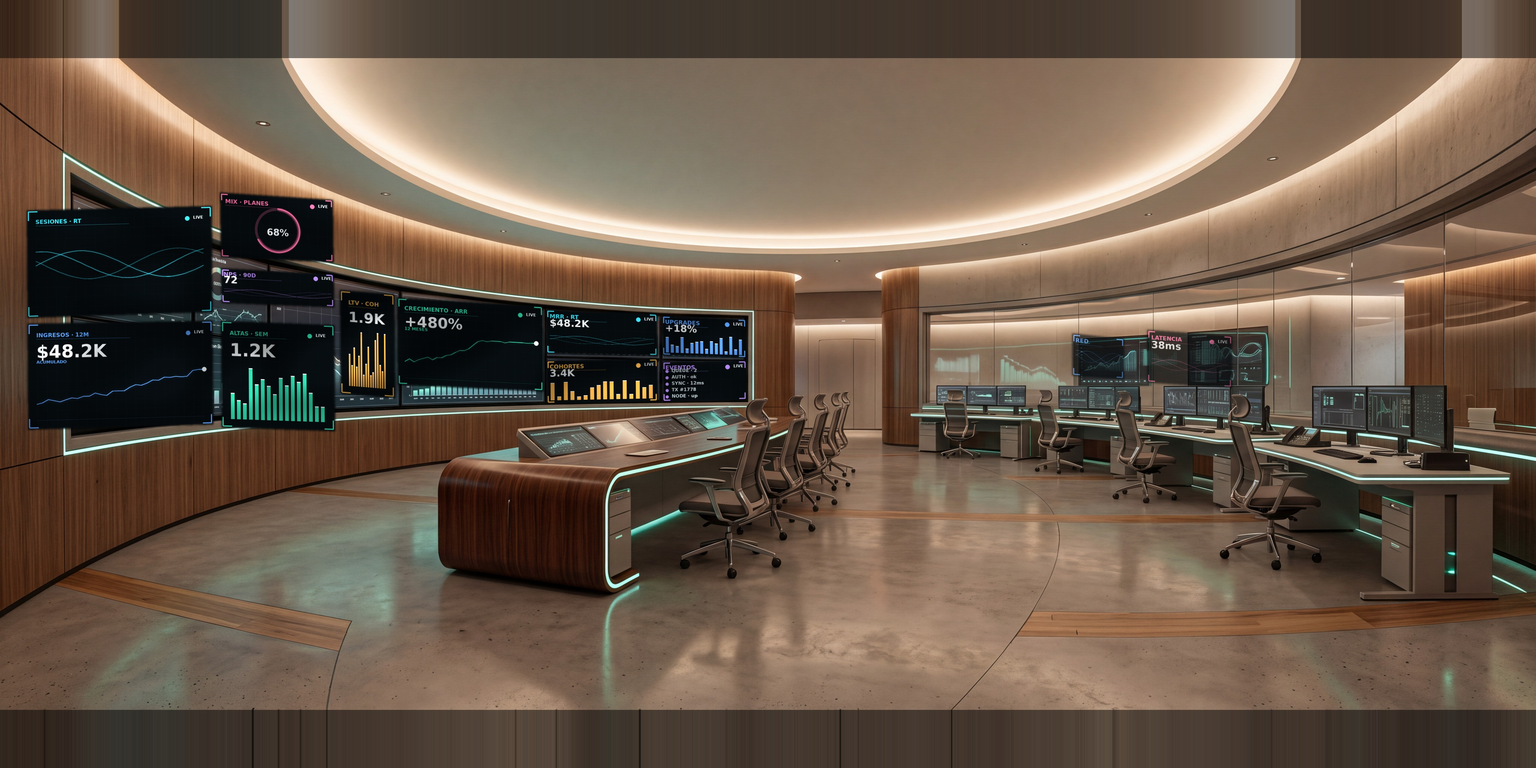
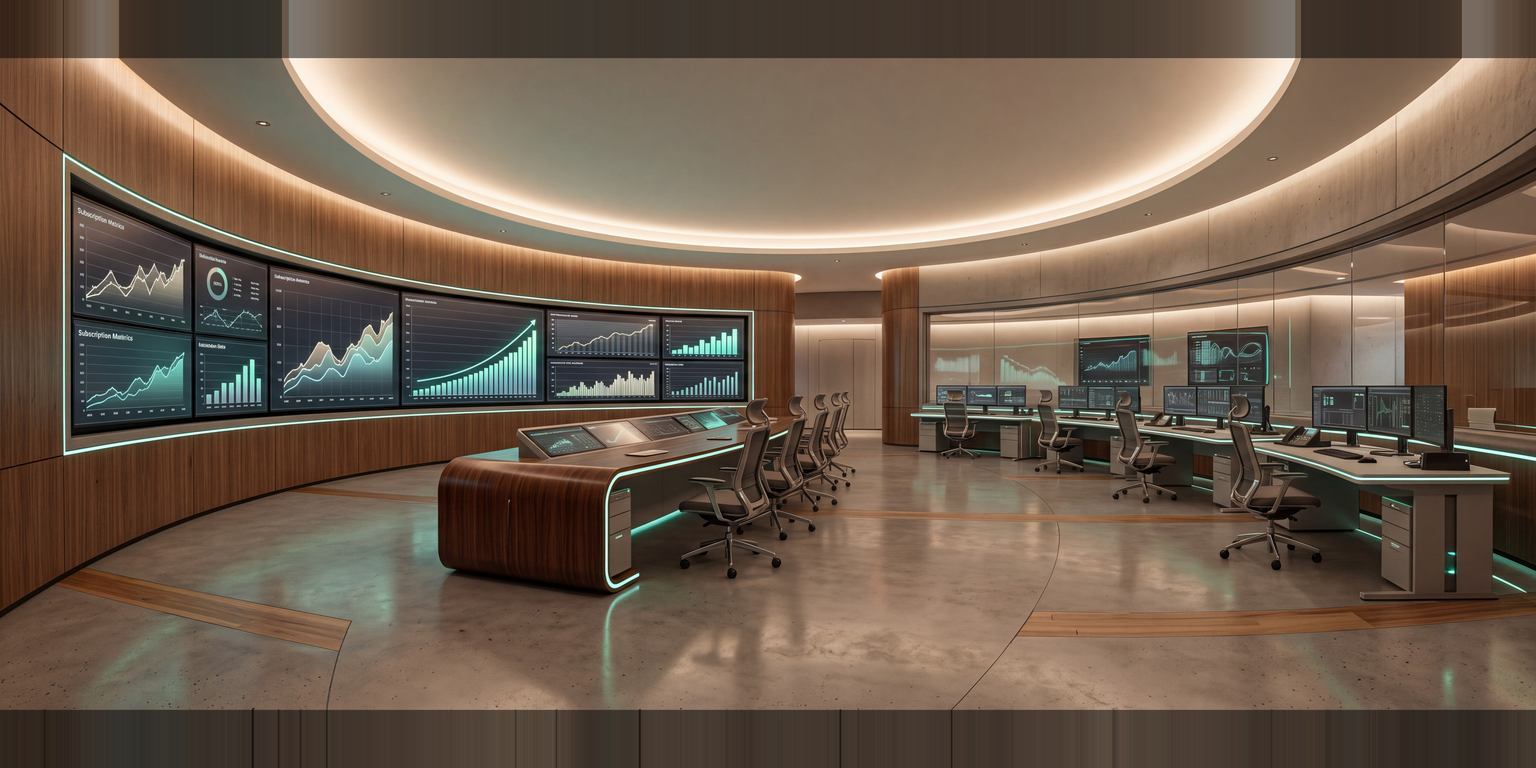
portal360: motor nuevo - tableros en vivo sobre parche de esfera (registro exacto) + shader que hereda luz/reflejos del pano; canvas 2x; panos originales restaurados
Claude-Session: https://claude.ai/code/session_01Q8Ypf8CPRvv1zprzmTWFCw

Changed region(s): [[0.0, 0.25, 0.5, 0.5625], [0.6875, 0.4062, 0.8125, 0.5]]

diff --git a/portal360.html b/portal360.html
@@ -412,17 +412,27 @@ WDASH.dash="<div class=\"wdash\"><div class=\"wdhead\"><span>Panel · tiempo rea
   function hx(h,a){var n=parseInt(h.slice(1),16);return 'rgba('+((n>>16)&255)+','+((n>>8)&255)+','+(n&255)+','+a+')';}
   // ---- varias pantallas vivas por sala (textura canvas en WebGL) ----
   var screens=[];
-  function clearWall(){ screens.forEach(function(s){scene.remove(s.mesh); if(s.mesh.geometry)s.mesh.geometry.dispose();}); screens=[]; }
+  function clearWall(){ screens.forEach(function(s){scene.remove(s.mesh); if(s.mesh.geometry)s.mesh.geometry.dispose(); if(s.mesh.material)s.mesh.material.dispose(); if(s.tex)s.tex.dispose();}); screens=[]; }
   function makeScreen(sc){
-    var sm=!!sc.sm, cw=sm?448:640, ch=sm?272:384;
-    var cv=document.createElement('canvas'); cv.width=cw; cv.height=ch; var cx=cv.getContext('2d');
-    var tex=new THREE.CanvasTexture(cv); tex.flipY=false; tex.minFilter=THREE.LinearFilter; tex.magFilter=THREE.LinearFilter; tex.anisotropy=renderer.capabilities.getMaxAnisotropy();
-    var _cn=[(sc.corners[0][0]+sc.corners[1][0]+sc.corners[2][0]+sc.corners[3][0])/4,(sc.corners[0][1]+sc.corners[1][1]+sc.corners[2][1]+sc.corners[3][1])/4];var _EX=sc.exp||1.03;var R=RADIUS*0.985, p=sc.corners.map(function(c){var lo=_cn[0]+(c[0]-_cn[0])*_EX, la=_cn[1]+(c[1]-_cn[1])*_EX; return lonlatToDir(lo,la).multiplyScalar(R);});
+    var sm=!!sc.sm, cw=sm?448:640, ch=sm?272:384, SS=2;
+    var cv=document.createElement('canvas'); cv.width=cw*SS; cv.height=ch*SS; var cx=cv.getContext('2d'); cx.scale(SS,SS);
+    var tex=new THREE.CanvasTexture(cv); tex.flipY=false; tex.minFilter=THREE.LinearMipmapLinearFilter; tex.magFilter=THREE.LinearFilter; tex.generateMipmaps=true; tex.anisotropy=renderer.capabilities.getMaxAnisotropy();
+    var c=sc.corners, N=18, M=10, R=RADIUS*0.992, pos=[],uv=[],puv=[],idx=[];
+    function L2(s,t){var lon=(1-t)*((1-s)*c[0][0]+s*c[1][0])+t*((1-s)*c[3][0]+s*c[2][0]);var lat=(1-t)*((1-s)*c[0][1]+s*c[1][1])+t*((1-s)*c[3][1]+s*c[2][1]);return [lon,lat];}
+    for(var j=0;j<=M;j++)for(var i=0;i<=N;i++){var s=i/N,t=j/M,q=L2(s,t),d=lonlatToDir(q[0],q[1]).multiplyScalar(R);pos.push(d.x,d.y,d.z);uv.push(s,t);var u=((q[0]-180)/360)%1;if(u<0)u+=1;puv.push(u,(q[1]+90)/180);}
+    for(var j=0;j<M;j++)for(var i=0;i<N;i++){var a=j*(N+1)+i,b=a+1,c2=a+N+1,d2=c2+1;idx.push(a,b,d2,a,d2,c2);}
     var g=new THREE.BufferGeometry();
-    g.setAttribute('position',new THREE.BufferAttribute(new Float32Array([p[0].x,p[0].y,p[0].z,p[1].x,p[1].y,p[1].z,p[2].x,p[2].y,p[2].z, p[0].x,p[0].y,p[0].z,p[2].x,p[2].y,p[2].z,p[3].x,p[3].y,p[3].z]),3));
-    g.setAttribute('uv',new THREE.BufferAttribute(new Float32Array([0,0,1,0,1,1, 0,0,1,1,0,1]),2));
-    var mesh=new THREE.Mesh(g,new THREE.MeshBasicMaterial({map:tex,transparent:false,depthTest:false,depthWrite:false,side:THREE.DoubleSide}));
-    mesh.renderOrder=3; mesh.layers.enable(BLOOM_LAYER); scene.add(mesh);
+    g.setAttribute('position',new THREE.Float32BufferAttribute(pos,3));
+    g.setAttribute('uv',new THREE.Float32BufferAttribute(uv,2));
+    g.setAttribute('puv',new THREE.Float32BufferAttribute(puv,2));
+    g.setIndex(idx);
+    var mat=new THREE.ShaderMaterial({
+      uniforms:{dash:{value:tex},pano:{value:sphere.material.map},avg:{value:sc.avg||0.28},str:{value:(sc.str!=null?sc.str:0.85)}},
+      vertexShader:'attribute vec2 puv; varying vec2 vUv; varying vec2 vP; void main(){ vUv=uv; vP=puv; gl_Position=projectionMatrix*modelViewMatrix*vec4(position,1.0); }',
+      fragmentShader:'uniform sampler2D dash; uniform sampler2D pano; uniform float avg; uniform float str; varying vec2 vUv; varying vec2 vP; void main(){ vec3 d=texture2D(dash,vUv).rgb; vec3 p=texture2D(pano,vP).rgb; float lum=dot(p,vec3(0.299,0.587,0.114)); float sh=clamp(lum/max(avg,0.04),0.5,1.45); sh=mix(1.0,sh,str); vec3 hi=max(p-vec3(0.62),vec3(0.0))*0.85; float fx=smoothstep(0.0,0.035,vUv.x)*smoothstep(0.0,0.035,1.0-vUv.x); float fy=smoothstep(0.0,0.05,vUv.y)*smoothstep(0.0,0.05,1.0-vUv.y); gl_FragColor=vec4(d*sh+hi, fx*fy); }',
+      transparent:true, depthTest:false, depthWrite:false, side:THREE.DoubleSide
+    });
+    var mesh=new THREE.Mesh(g,mat); mesh.renderOrder=3; mesh.layers.enable(BLOOM_LAYER); scene.add(mesh);
     var s=Object.assign({},sc); s.mesh=mesh;s.cx=cx;s.tex=tex;s.acc=ACC[sc.acc]||sc.acc||ACC.g;s.title=sc.title||'';s.seed=sc.seed||Math.random()*7;s.W=cw;s.H=ch;s.iv=sc.iv||(sm?150:70);s.last=performance.now()-Math.random()*s.iv;
     drawPanel(s,performance.now()/1000); s.tex.needsUpdate=true; screens.push(s);
   }
@@ -430,7 +440,7 @@ WDASH.dash="<div class=\"wdash\"><div class=\"wdhead\"><span>Panel · tiempo rea
   // ---- librería de paneles (estilo pantalla emisiva, animados, multicolor) ----
   function rr(c,x,y,w,h,r){c.beginPath();c.moveTo(x+r,y);c.arcTo(x+w,y,x+w,y+h,r);c.arcTo(x+w,y+h,x,y+h,r);c.arcTo(x,y+h,x,y,r);c.arcTo(x,y,x+w,y,r);c.closePath();}
   function frame(c,W,H,acc,title,t){
-    c.clearRect(0,0,W,H); c.fillStyle='rgba(6,11,13,1)'; c.fillRect(0,0,W,H);
+    c.clearRect(0,0,W,H); c.fillStyle='rgba(12,19,23,1)'; c.fillRect(0,0,W,H);
     c.lineWidth=1; c.strokeStyle=hx(acc,0.05);
     for(var gx=34;gx<W;gx+=42){c.beginPath();c.moveTo(gx,0);c.lineTo(gx,H);c.stroke();}
     for(var gy=34;gy<H;gy+=42){c.beginPath();c.moveTo(0,gy);c.lineTo(W,gy);c.stroke();}
@@ -510,19 +520,19 @@ WDASH.dash="<div class=\"wdash\"><div class=\"wdhead\"><span>Panel · tiempo rea
        sheet:'media/strip-infra.webp', cls:'infraa'},
       {type:'door', lon:180,lat:-2, to:0, label:'Volver a Recepción'}
     ]},
-    {name:'Capa 02 · Seguridad', pano:'media/sala3.jpg', entryYaw:0, screens:[], spots:[
+    {name:'Capa 02 · Seguridad', pano:'media/sala3.jpg', entryYaw:0, screens:[{"type":"bars","acc":"c","title":"BRECHAS · 24H","big":"0","iv":120,"corners":[[-127.27,28.3],[-111.62,27.42],[-111.45,11.78],[-127.09,12.48]]},{"type":"stream","acc":"g","title":"EVENTOS · SOC","iv":120,"corners":[[-97.38,10.46],[-75.85,9.58],[-75.67,-3.6],[-97.21,-2.99]]}], spots:[
       {type:'char', lon:-8,lat:-8, hk:'seg', eye:'Capa 02', title:'Seguridad', who:'ESPECIALISTA · SEGURIDAD',
        text:'Cifrado, 2FA y vigilancia continua: tus datos y los de tus usuarios, blindados.',
        sheet:'media/strip-seg.webp', cls:'sega'},
       {type:'door', lon:130,lat:-2, to:0, label:'Volver a Recepción'}
     ]},
-    {name:'Capa 03 · Pagos', pano:'media/sala4.jpg', entryYaw:0, screens:[], spots:[
+    {name:'Capa 03 · Pagos', pano:'media/sala4.jpg', entryYaw:0, screens:[{"type":"bars","acc":"g","title":"PAGOS · HOY","big":"$1.2M","iv":120,"corners":[[-179.12,58.18],[-158.47,57.3],[-158.38,37.71],[-178.95,38.32]]},{"type":"ring","acc":"b","title":"APROBACIÓN","val":0.97,"sub":"HOY","iv":140,"corners":[[-178.95,36.83],[-158.38,36.39],[-158.29,19.69],[-178.86,20.13]]}], spots:[
       {type:'char', lon:8,lat:-8, hk:'pagos', eye:'Capa 03', title:'Pagos', who:'ESPECIALISTA · PAGOS',
        text:'Cobros directos al consumidor, sin fricción: la capa que convierte usuarios en ingresos.',
        sheet:'media/strip-pagos.webp', cls:'pagosa'},
       {type:'door', lon:150,lat:-2, to:0, label:'Volver a Recepción'}
     ]},
-    {name:'Capa 04 · Suscripciones', pano:'media/sala5.jpg', entryYaw:0, screens:[], spots:[
+    {name:'Capa 04 · Suscripciones', pano:'media/sala5.jpg', entryYaw:0, screens:[{"type":"wave","acc":"c","title":"SESIONES · RT","iv":110,"corners":[[-173.85,40.78],[-130.34,41.84],[-130.17,16.88],[-173.67,15.47]]},{"type":"bigline","acc":"b","title":"INGRESOS · 12M","big":"$48.2K","sub":"ACUMULADO","iv":110,"corners":[[-173.67,14.24],[-130.17,14.94],[-129.99,-9.49],[-173.5,-10.72]]},{"type":"ring","acc":"m","title":"MIX · PLANES","val":0.68,"sub":"ANUAL","iv":160,"corners":[[-128.58,45.0],[-101.95,43.24],[-101.78,28.48],[-128.32,29.71]]},{"type":"wave","acc":"v","title":"NPS · 90D","big":"72","iv":160,"corners":[[-128.32,27.25],[-101.78,25.84],[-101.6,17.93],[-128.14,18.98]]},{"type":"bars","acc":"g","title":"ALTAS · SEM","big":"1.2K","iv":110,"corners":[[-128.32,14.94],[-101.6,13.89],[-101.43,-11.07],[-128.14,-10.2]]},{"type":"bars","acc":"a","title":"LTV · COH","big":"1.9K","iv":160,"corners":[[-100.46,22.15],[-87.54,21.09],[-87.36,-3.34],[-100.28,-2.29]]},{"type":"bigline","acc":"g","title":"CRECIMIENTO · ARR","big":"+480%","sub":"12 MESES ▲","iv":80,"corners":[[-87.01,20.39],[-52.73,18.28],[-52.56,-1.76],[-86.84,-0.18]]},{"type":"wave","acc":"c","title":"MRR · RT","big":"$48.2K","iv":90,"corners":[[-52.12,17.58],[-25.93,16.52],[-25.84,6.5],[-52.03,7.12]]},{"type":"bars","acc":"b","title":"UPGRADES","big":"+18%","iv":90,"corners":[[-24.96,16.17],[-5.1,15.29],[-5.01,5.98],[-24.87,6.68]]},{"type":"bars","acc":"a","title":"COHORTES","big":"3.4K","iv":90,"corners":[[-52.03,5.62],[-25.84,6.06],[-25.75,-4.13],[-51.94,-4.66]]},{"type":"stream","acc":"v","title":"EVENTOS · LIVE","iv":90,"corners":[[-24.87,5.36],[-5.01,5.62],[-4.92,-3.78],[-24.79,-4.22]]},{"type":"wave","acc":"b","title":"RED · NODOS","sm":1,"iv":220,"corners":[[72.77,10.72],[89.38,10.9],[89.38,-0.35],[72.77,-0.18]]},{"type":"wave","acc":"m","title":"LATENCIA","big":"38ms","sm":1,"iv":220,"corners":[[98.44,11.78],[116.81,12.13],[116.81,-0.53],[98.44,-0.53]]}], spots:[
       {type:'char', lon:-15,lat:-8, hk:'susc', eye:'Capa 04', title:'Suscripciones', who:'ESPECIALISTA · SUSCRIPCIONES',
        text:'Ingresos recurrentes: planes, renovaciones y reintentos que crecen mes a mes.',
        sheet:'media/strip-susc.webp', cls:'susca'},
@@ -752,7 +762,7 @@ WDASH.dash="<div class=\"wdash\"><div class=\"wdhead\"><span>Panel · tiempo rea
         s.el.style.top=((-proj.y*0.5+0.5)*innerHeight)+'px';
       } else {s.el.style.opacity='0';s.el.style.pointerEvents='none';}
     }
-    for(var wi=0;wi<screens.length;wi++){var sc=screens[wi]; if(now-sc.last>sc.iv){sc.last=now; drawPanel(sc, now/1000); sc.tex.needsUpdate=true;}}
+    for(var wi=0;wi<screens.length;wi++){var sc=screens[wi]; if(sc.mesh.material.uniforms&&sc.mesh.material.uniforms.pano.value!==sphere.material.map)sc.mesh.material.uniforms.pano.value=sphere.material.map; if(now-sc.last>sc.iv){sc.last=now; drawPanel(sc, now/1000); sc.tex.needsUpdate=true;}}
     renderComposited();
   }
   loop();
